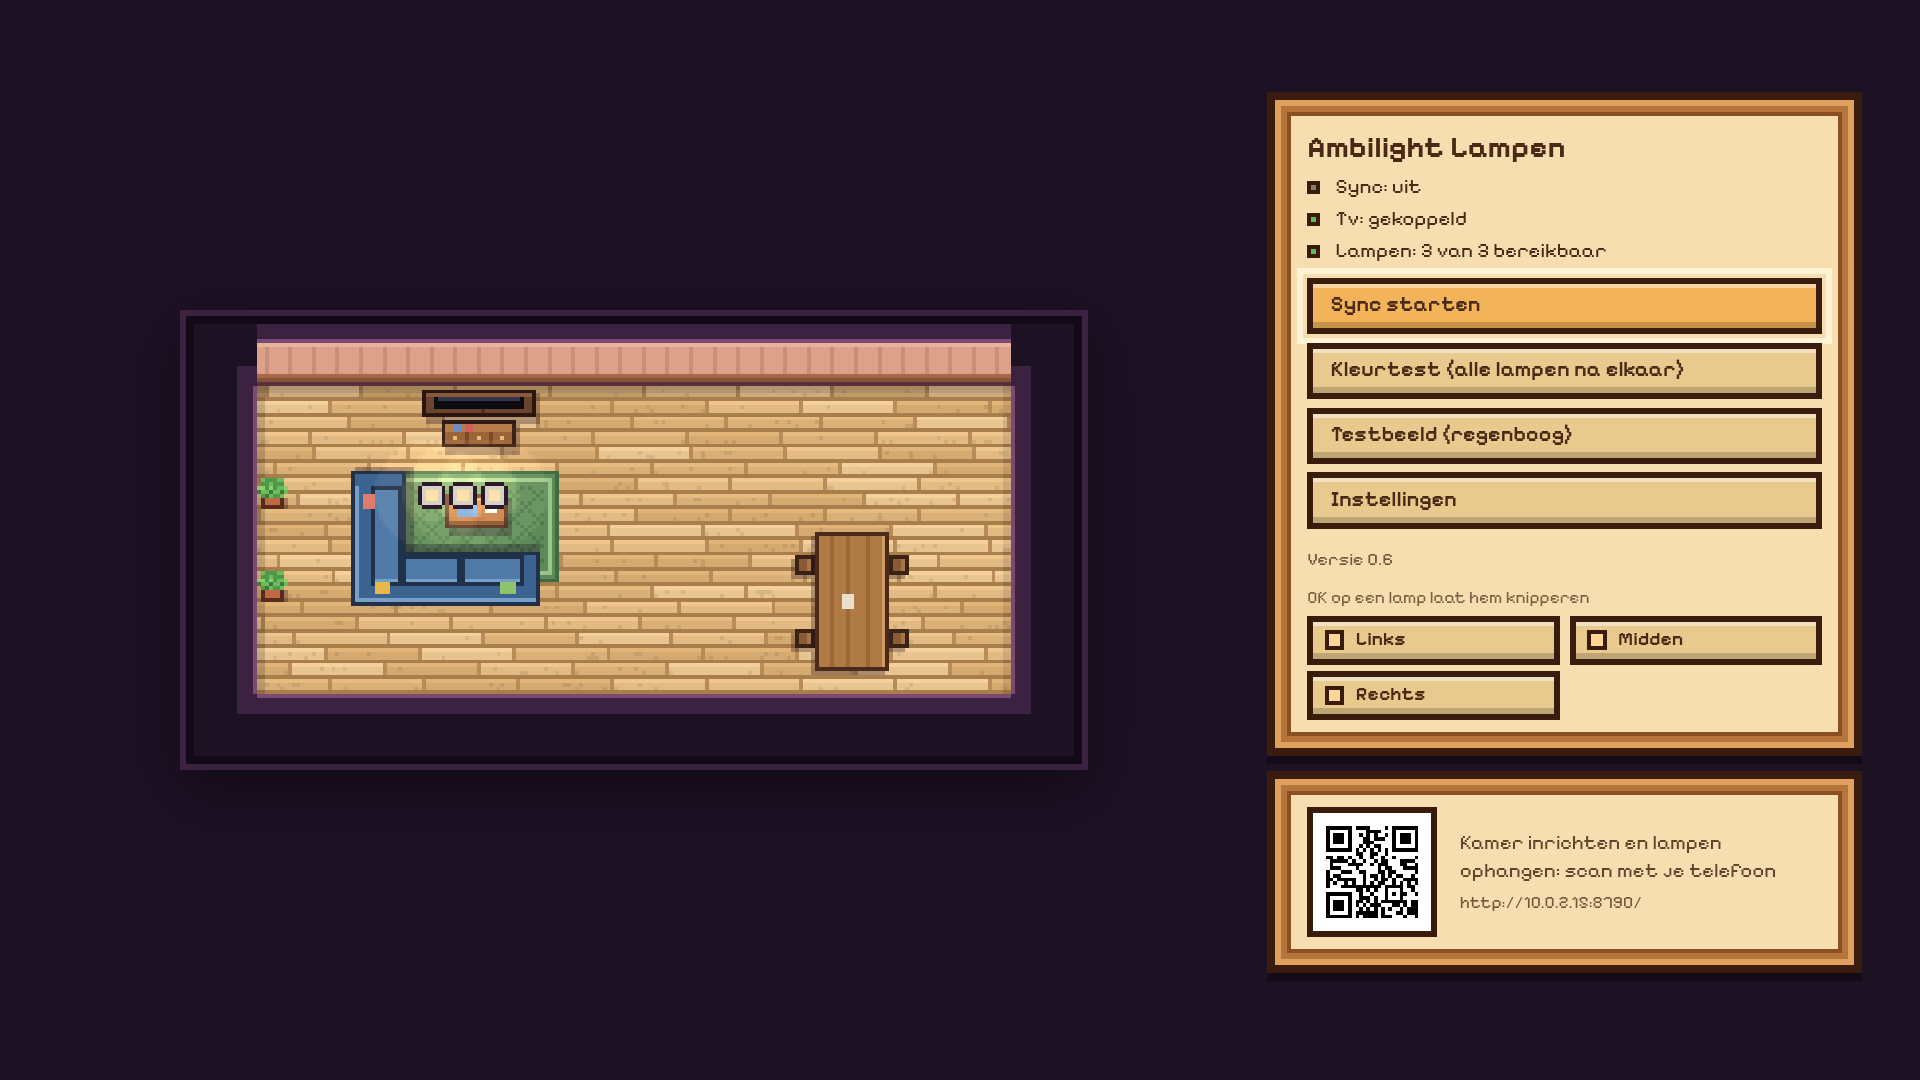
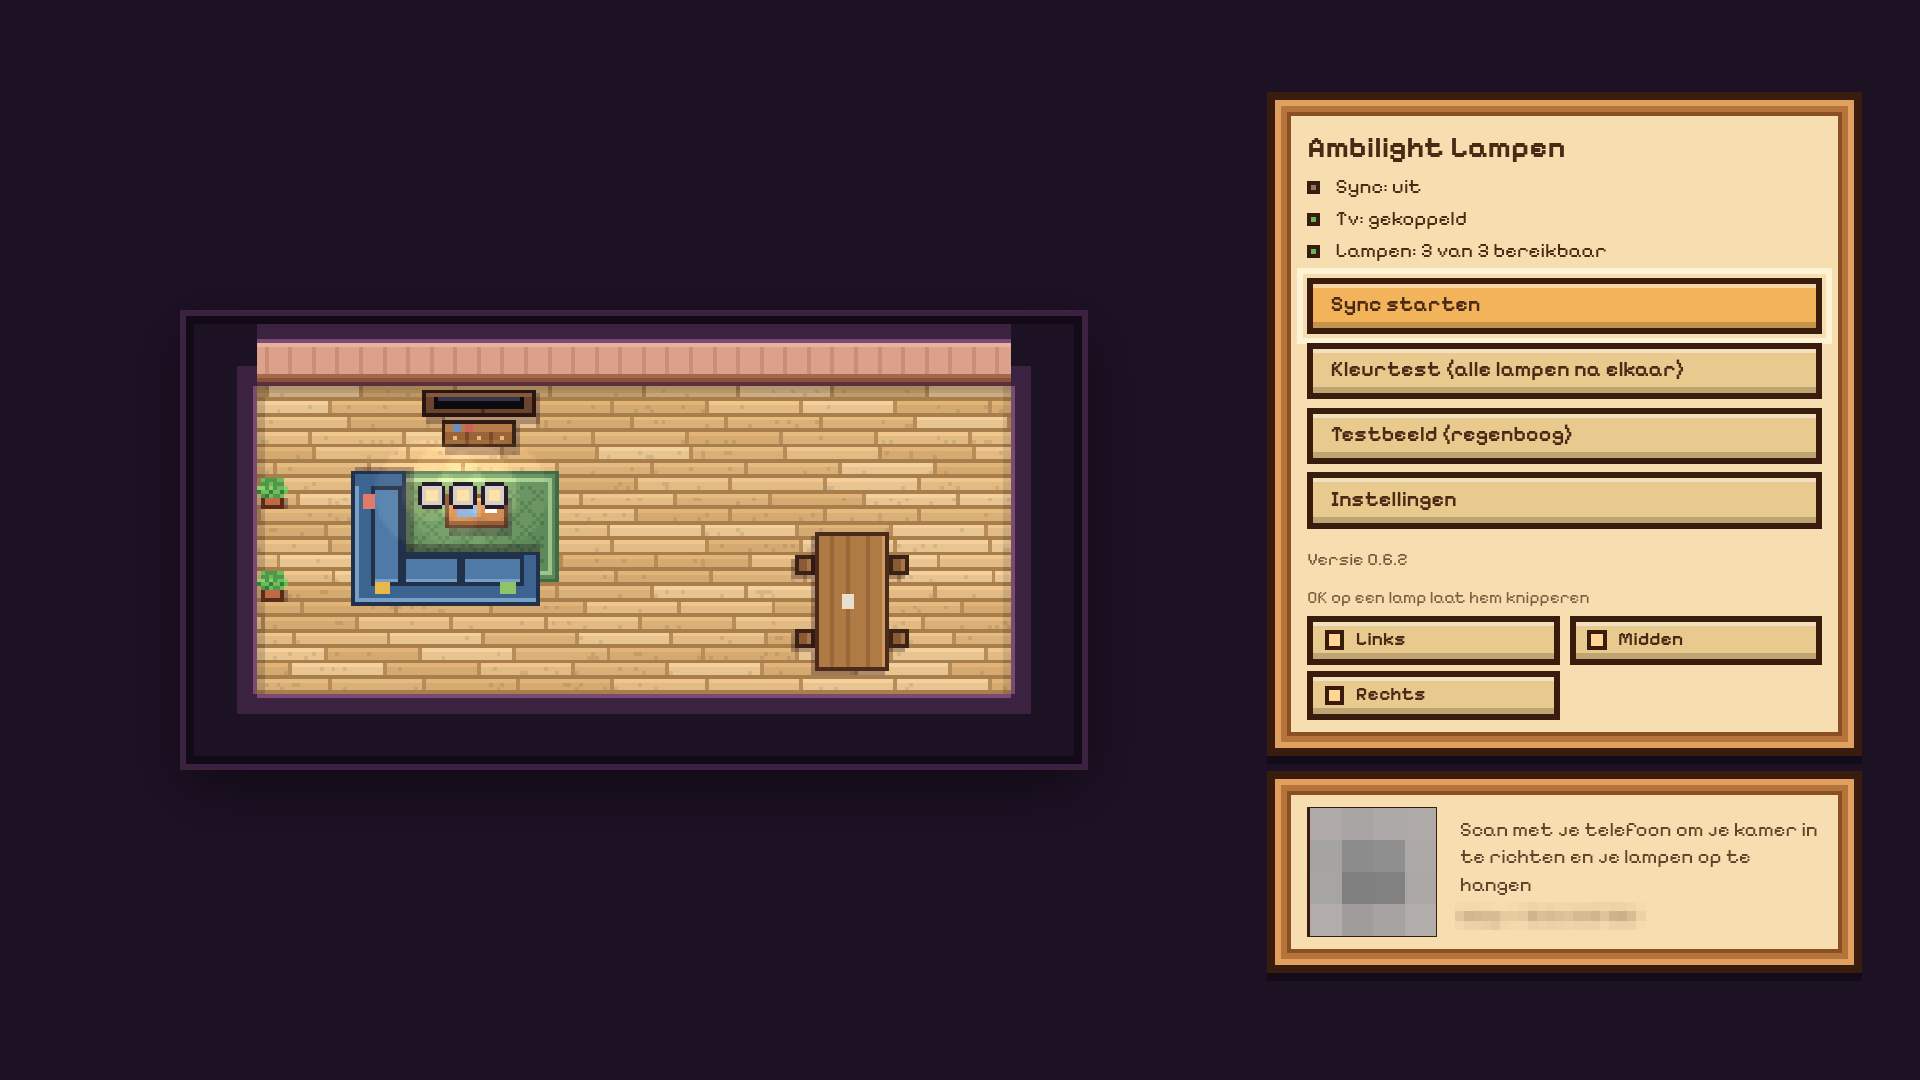
Duidelijkere zin bij de QR-code; adres en QR onherkenbaar op screenshots
Versie 0.6.2.

Changed region(s): [[0.6562, 0.7333, 0.9375, 0.8861]]

diff --git a/app/src/main/assets/i18n.js b/app/src/main/assets/i18n.js
@@ -19,7 +19,7 @@ const I18N = (() => {
     'Nu updaten?': 'Update now?', 'Later': 'Later', '. Kijk op de tv.': '. Check the TV.',
     // tv-scherm
     'Kleurtest (alle lampen na elkaar)': 'Colour test (all lamps one by one)', 'Testbeeld (regenboog)': 'Test pattern (rainbow)',
-    'Testbeeld': 'Test pattern', 'Kamer inrichten en lampen ophangen: scan met je telefoon': 'Set up your room and place your lamps: scan with your phone',
+    'Testbeeld': 'Test pattern', 'Scan met je telefoon om je kamer in te richten en je lampen op te hangen': 'Scan with your phone to set up your room and place your lamps',
     'Nog geen lampen, voeg ze toe via de telefoon': 'No lamps yet, add them with your phone',
     'OK op een lamp laat hem knipperen': 'OK on a lamp makes it blink', ' (nog ophangen)': ' (not placed yet)',
     'Omhoog en omlaag: kiezen. Links en rechts: aanpassen. OK: aan of uit. Terug: sluiten.': 'Up and down: choose. Left and right: adjust. OK: on or off. Back: close.',

diff --git a/app/src/main/assets/tv.html b/app/src/main/assets/tv.html
@@ -72,7 +72,7 @@ h1{margin:0;font-size:2.8vh;font-weight:700}
       <div class="legend" id="legend"></div>
     </section>
     <section class="panel">
-      <div class="qr"><img id="qr" alt=""><div><p>Kamer inrichten en lampen ophangen: scan met je telefoon</p><small id="url"></small></div></div>
+      <div class="qr"><img id="qr" alt=""><div><p>Scan met je telefoon om je kamer in te richten en je lampen op te hangen</p><small id="url"></small></div></div>
     </section>
   </div>
 </div>
